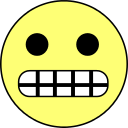
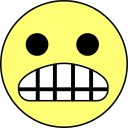
Make :grimacing: frown Grimacing is a rather negative emotion, and the Unicode actually has a frown on it. Why every major emoji designer has it either neutral or with eyes pointing up to look positive is confusing.

Changed region(s): [[0.125, 0.4688, 0.875, 0.8125]]

diff --git a/tymoji.user.js b/tymoji.user.js
@@ -10,7 +10,7 @@
 // @include     http://scratch.mit.edu/accounts/password_change/*
 // @include     https://scratch.mit.edu/accounts/email_change/*
 // @include     http://scratch.mit.edu/accounts/email_change/*
-// @version     0.2-dev005
+// @version     0.2-dev006
 // @updateURL   https://www.github.com/Tymewalk/Tymoji/raw/master/tymoji.user.js
 // @grant       metadata
 // ==/UserScript==
